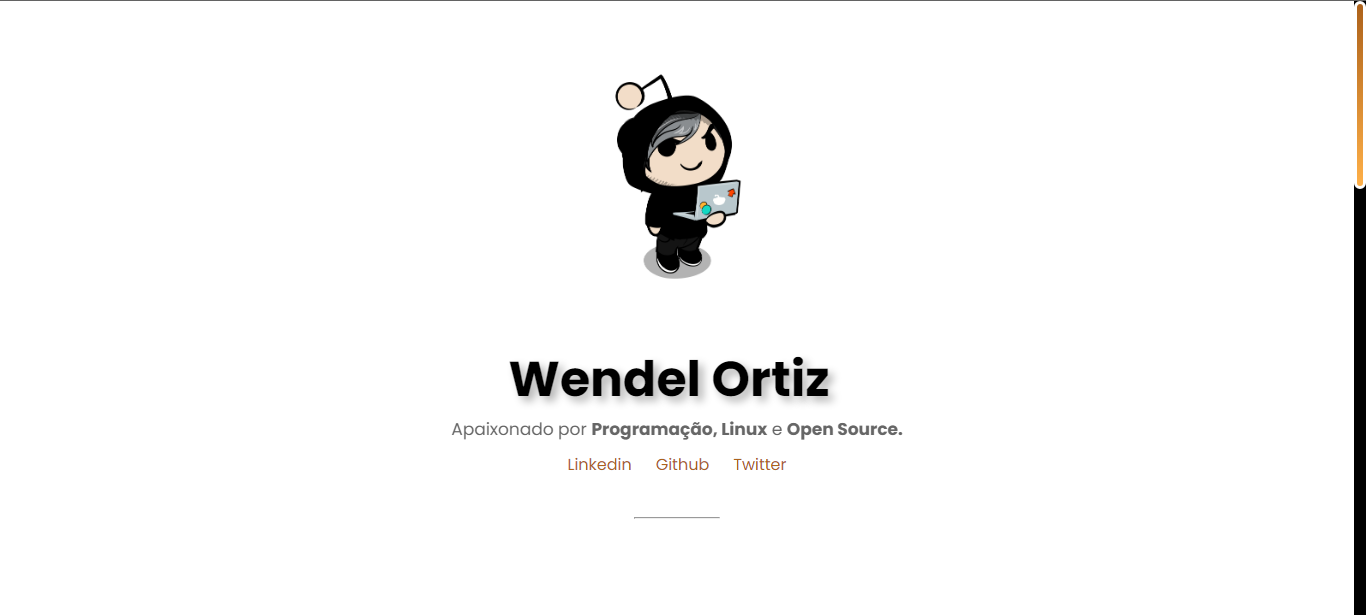
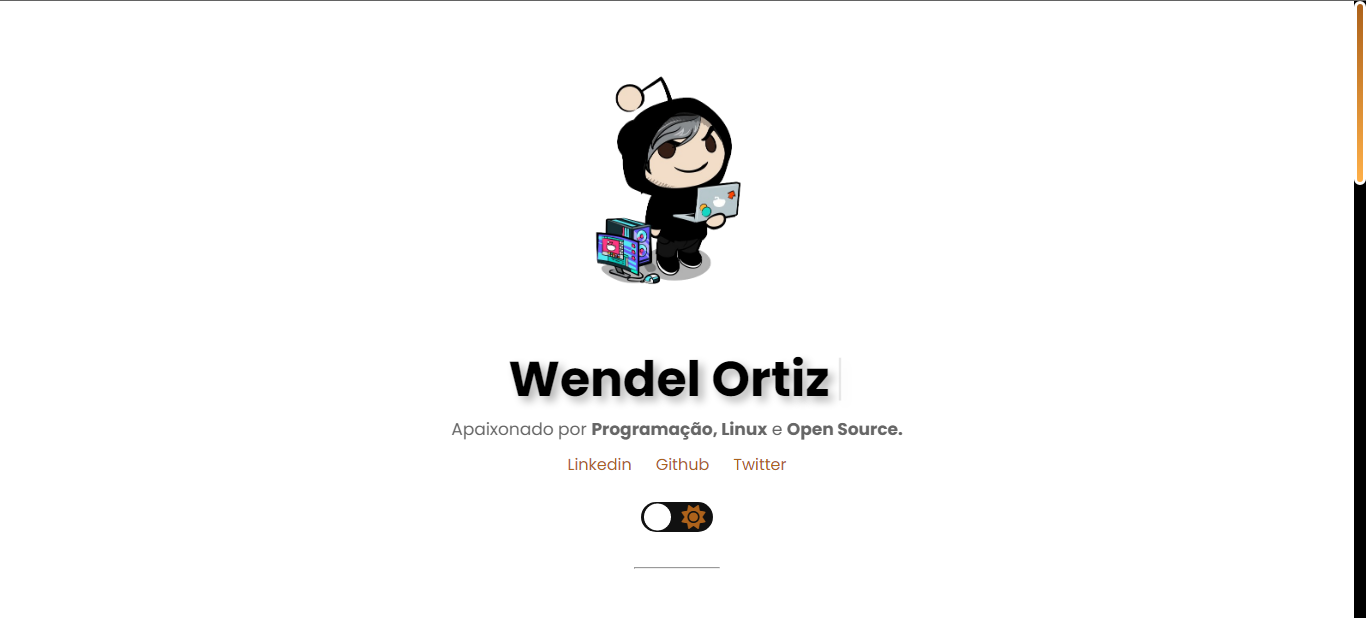
updates

diff --git a/README.md b/README.md
@@ -9,7 +9,11 @@
 
 
 <div>
-  <img src="https://github.com/0ortiz/portfolio/blob/main/assets/img/portfólio.png" alt="mobile">
+  <img src="https://github.com/0ortiz/portfolio/blob/main/assets/img/portfólio.png" alt="lightmode_theme">
+</div>
+#
+<div>
+  <img src="https://github.com/0ortiz/portfolio/blob/main/assets/img/portfólio_darkmode.png" alt="darkmode_theme">
 </div>
 
 
